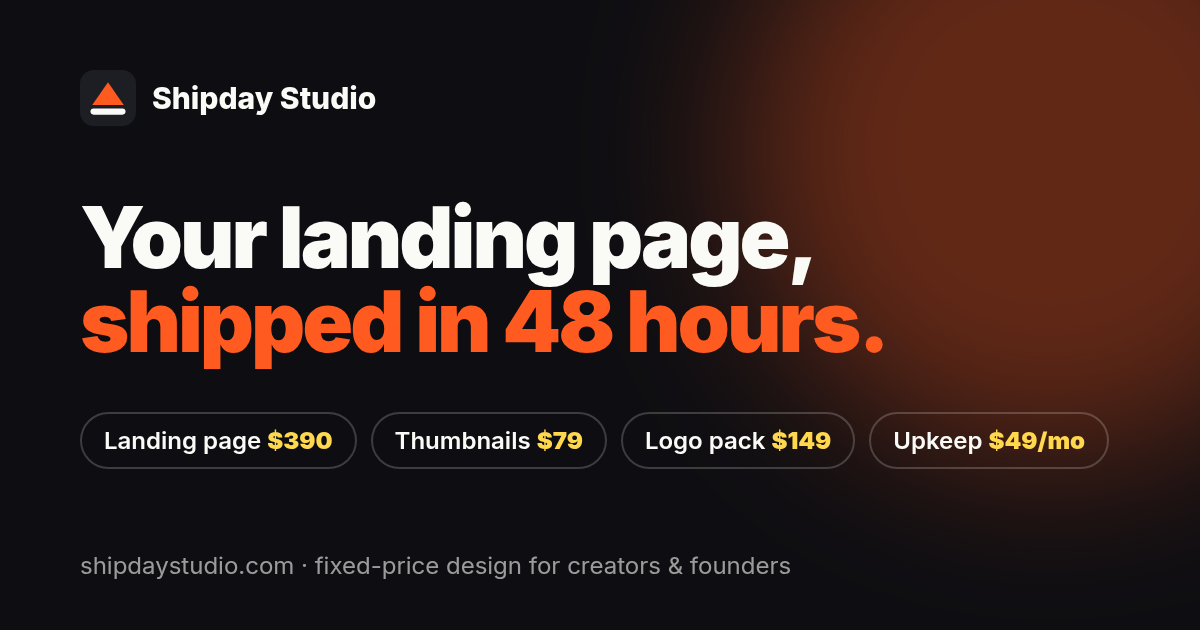
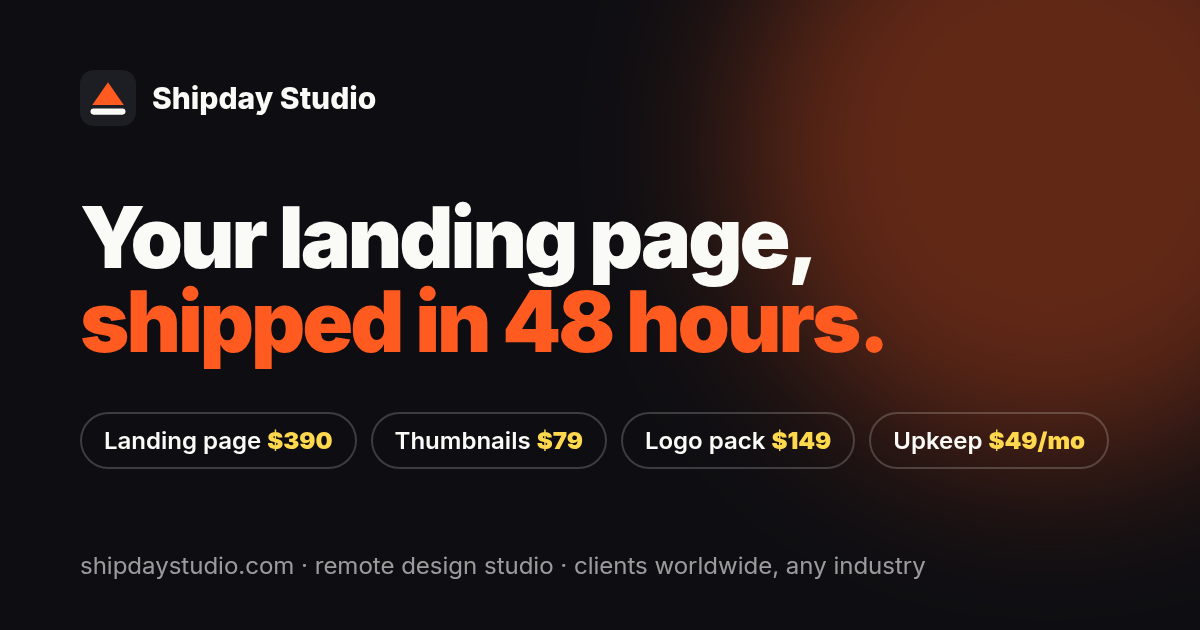
Worldwide positioning: any market, any industry

Changed region(s): [[0.2467, 0.8746, 0.7708, 0.9349]]

diff --git a/src/app/page.tsx b/src/app/page.tsx
@@ -2,7 +2,7 @@ import Link from "next/link";
 import { OfferCards } from "@/components/OfferCards";
 import type { Metadata } from "next";
 import { BuyButton } from "@/components/BuyButton";
-import { cases, faq, logos, steps, thumbnails, site, getOffer, formatPrice, briefMailto } from "@/lib/site";
+import { cases, faq, industries, logos, steps, thumbnails, site, getOffer, formatPrice, briefMailto } from "@/lib/site";
 import { SampleGallery } from "@/components/SampleGallery";
 import { pageMeta } from "@/lib/seo";
 
@@ -23,14 +23,15 @@ export default function Home() {
         <div className="container-x grid items-center gap-12 py-16 sm:py-24 lg:grid-cols-[1.1fr_1fr]">
           <div>
             <p className="inline-flex items-center gap-2 rounded-full border border-line bg-white px-3 py-1 text-xs font-semibold">
-              <span aria-hidden="true" className="h-2 w-2 rounded-full bg-green-500" /> Fixed prices in USD · no calls needed
+              <span aria-hidden="true" className="h-2 w-2 rounded-full bg-green-500" /> Remote · clients worldwide · fixed prices in USD
             </p>
             <h1 className="mt-6 text-balance text-5xl font-extrabold leading-[1.02] tracking-tight sm:text-6xl lg:text-7xl">
               Your landing page, <span className="text-accent">shipped in 48 hours.</span>
             </h1>
             <p className="mt-6 max-w-xl text-lg text-muted">
-              Fixed-price design for creators and founders. Pick a package, pay online, email a short brief, and get
-              finished work by a clear deadline. No calls, no quotes, no scope creep.
+              Fixed-price design for businesses, creators and brands anywhere in the world, in any industry. Pick a
+              package, pay online, email a short brief, and get finished work by a clear deadline. No calls, no quotes,
+              no scope creep.
             </p>
             <div className="mt-8 flex flex-wrap gap-3">
               <BuyButton offer={getOffer("landing")} className="btn-accent">Get a landing page · {formatPrice(getOffer("landing"))}</BuyButton>
@@ -61,6 +62,23 @@ export default function Home() {
               className="absolute -right-3 -top-5 w-1/4 rotate-[6deg] rounded-2xl border-4 border-white shadow-xl"
             />
           </div>
+        </div>
+      </section>
+
+      {/* Who we work with */}
+      <section aria-labelledby="who-heading" className="pb-16 sm:pb-20">
+        <div className="container-x grid gap-6 lg:grid-cols-[1fr_2fr] lg:items-center lg:gap-10">
+          <div>
+            <p className="eyebrow">Who we work with</p>
+            <h2 id="who-heading" className="mt-3 text-balance text-2xl font-extrabold tracking-tight sm:text-3xl">Any business, any industry, anywhere.</h2>
+            <p className="mt-2 text-muted">{site.reach}</p>
+          </div>
+          <ul className="flex flex-wrap gap-2" aria-label="Industries we design for">
+            {industries.map((i) => (
+              <li key={i} className="rounded-full border border-line bg-white px-3.5 py-1.5 text-sm font-medium">{i}</li>
+            ))}
+            <li className="rounded-full border border-accent/30 bg-accent/5 px-3.5 py-1.5 text-sm font-semibold text-accent">…and whatever you sell</li>
+          </ul>
         </div>
       </section>
 

diff --git a/src/lib/site.ts b/src/lib/site.ts
@@ -2,11 +2,11 @@ export const site = {
   name: "Shipday Studio",
   url: "https://shipdaystudio.com",
   email: "hello@shipdaystudio.com",
-  tagline: "Fixed-price design for creators and founders. Shipped in days, not weeks.",
+  tagline: "Fixed-price design for businesses, creators and brands worldwide. Shipped in days, not weeks.",
   description:
-    "Shipday Studio is a fixed-price design studio for creators and founders: landing pages in 48h, YouTube thumbnail packs in 24h, logo packs in 48h, and monthly upkeep. Clear prices in USD, no calls required.",
-  /** Public location shown in marketing copy. No personal name or street address is published anywhere on the site. */
-  location: "Switzerland",
+    "Remote, fixed-price design studio for businesses, creators and brands worldwide, in any industry. Landing pages and logos in 48h, thumbnails in 24h. USD, no calls.",
+  /** Marketing copy is remote and worldwide. The country appears only in the legal identity (site.legal). No personal name or street address is published anywhere on the site. */
+  reach: "Remote studio working with businesses, creators and brands worldwide, in any industry.",
   x: { handle: "@ShipdayStudio", url: "https://x.com/ShipdayStudio" },
   /** Public operator and data controller details for the legal pages. No personal name or street address. */
   legal: {
@@ -32,6 +32,21 @@ export function briefMailto(service?: string) {
   ].join("\n");
   return `mailto:${site.email}?subject=${encodeURIComponent(subject)}&body=${encodeURIComponent(body)}`;
 }
+
+/** Sectors shown in the "Who we work with" strip. Illustrative of breadth, not a client list. */
+export const industries = [
+  "SaaS & tech",
+  "E-commerce",
+  "Restaurants & hospitality",
+  "Local services",
+  "Health & wellness",
+  "Coaches & consultants",
+  "Creators & YouTubers",
+  "Gaming",
+  "Finance",
+  "Real estate",
+  "Non-profits",
+];
 
 export type ServiceId = "landing" | "thumbnails" | "logo" | "upkeep";
 
@@ -112,7 +127,11 @@ export const steps = [
 export const faq = [
   {
     q: "Who is behind Shipday Studio?",
-    a: "Shipday Studio is an independent studio based in Switzerland. Production runs on an AI-assisted workflow, and every deliverable is reviewed by a human before delivery, which is how we keep prices fixed and turnaround short.",
+    a: "Shipday Studio is an independent, fully remote design studio. Production runs on an AI-assisted workflow, and every deliverable is reviewed by a human before delivery, which is how we keep prices fixed and turnaround short.",
+  },
+  {
+    q: "Do you work with clients in my country or industry?",
+    a: "Yes. We work with businesses, creators and brands in any country, market or industry, selling any product or service. Everything runs by email and Stripe checkout, so there are no calls to schedule across time zones.",
   },
   {
     q: "When does the clock start?",

diff --git a/src/components/Footer.tsx b/src/components/Footer.tsx
@@ -8,7 +8,7 @@ export function Footer() {
       <div className="container-x grid gap-8 py-12 sm:grid-cols-[2fr_1fr_1fr]">
         <div>
           <div className="flex items-center gap-2 font-extrabold"><LogoMark className="h-7 w-7" /> {site.name}</div>
-          <p className="mt-3 max-w-xs text-sm text-muted">Fixed-price design for creators and founders. Based in {site.location}.</p>
+          <p className="mt-3 max-w-xs text-sm text-muted">Fixed-price design for businesses, creators and brands. Remote, working with clients worldwide.</p>
         </div>
         <div className="text-sm">
           <h2 className="font-semibold">Contact</h2>
@@ -33,7 +33,7 @@ export function Footer() {
         </div>
       </div>
       <div className="container-x border-t border-line py-6 text-xs text-muted">
-        © {new Date().getFullYear()} {site.name} · {site.location} · Prices in USD · Sample work shows fictional brands.
+        © {new Date().getFullYear()} {site.name} · {site.legal.country} · Prices in USD · Sample work shows fictional brands.
       </div>
     </footer>
   );

diff --git a/scripts/og.html b/scripts/og.html
@@ -13,4 +13,4 @@ h1 span{color:#FF5A1F}
 <div class="brand"><svg width="56" height="56" viewBox="0 0 64 64"><rect width="64" height="64" rx="16" fill="#1d1d24"/><path d="M14 40 L32 14 L50 40 Z" fill="#FF5A1F"/><rect x="12" y="44" width="40" height="7" rx="3.5" fill="#FAFAF7"/></svg>Shipday Studio</div>
 <h1>Your landing page,<br><span>shipped in 48 hours.</span></h1>
 <div class="chips"><div class="chip">Landing page <b>$390</b></div><div class="chip">Thumbnails <b>$79</b></div><div class="chip">Logo pack <b>$149</b></div><div class="chip">Upkeep <b>$49/mo</b></div></div>
-</div><div class="url">shipdaystudio.com · fixed-price design for creators &amp; founders</div></body></html>
+</div><div class="url">shipdaystudio.com · remote design studio · clients worldwide, any industry</div></body></html>

diff --git a/src/app/order/page.tsx b/src/app/order/page.tsx
@@ -23,7 +23,7 @@ export default function OrderPage() {
       <p className="eyebrow">Order</p>
       <h1 className="mt-3 text-balance text-4xl font-extrabold tracking-tight sm:text-5xl">Pick a package and pay</h1>
       <p className="mt-4 max-w-2xl text-muted">
-        Prices are fixed and in USD. Turnaround starts once we have both your payment and your brief.
+        We work remotely with clients in any country and industry. Prices are fixed and in USD. Turnaround starts once we have both your payment and your brief.
       </p>
 
       <ol className="mt-8 grid gap-4 sm:grid-cols-3">

diff --git a/src/app/layout.tsx b/src/app/layout.tsx
@@ -29,7 +29,7 @@ const jsonLd = {
   image: `${site.url}/og.png`,
   email: site.email,
   description: site.description,
-  areaServed: "Worldwide",
+  areaServed: { "@type": "Place", name: "Worldwide" },
   currenciesAccepted: "USD",
   paymentAccepted: "Credit card (Stripe)",
   address: { "@type": "PostalAddress", addressCountry: "CH" },

diff --git a/README.md b/README.md
@@ -1,6 +1,6 @@
 # Shipday Studio: shipdaystudio.com
 
-The marketing and order site for **Shipday Studio**, based in Switzerland (operator details: `/imprint`).
+The marketing and order site for **Shipday Studio**, a remote design studio working with businesses, creators and brands worldwide, in any industry (operator details: `/imprint`).
 It's a fixed-price design studio for creators and founders.
 
 Stack: Next.js 16 (App Router) + TypeScript + Tailwind CSS v4. Runtime dependencies: `next`, `react` and `react-dom`, nothing else.
@@ -38,5 +38,5 @@ Hosted on GitHub Pages (custom domain shipdaystudio.com). Payment Links live in 
 
 ## Notes
 - DNS is on Namecheap with email forwarding (hello@ -> owner). Never replace the MX / forwarding records when changing hosts.
-- Branding: marketing copy shows the location as "Switzerland" only; no personal name or city outside the legal pages.
+- Branding: marketing copy is remote, worldwide and for any industry; never limit it to one country or market. "Switzerland" appears only in the legal identity (imprint, terms, privacy, `site.legal`, footer legal line). No personal name, address, phone or personal email anywhere.
 - Legal: `/terms`, `/privacy` and `/imprint` are plain-English drafts, not legal advice; have them reviewed.
